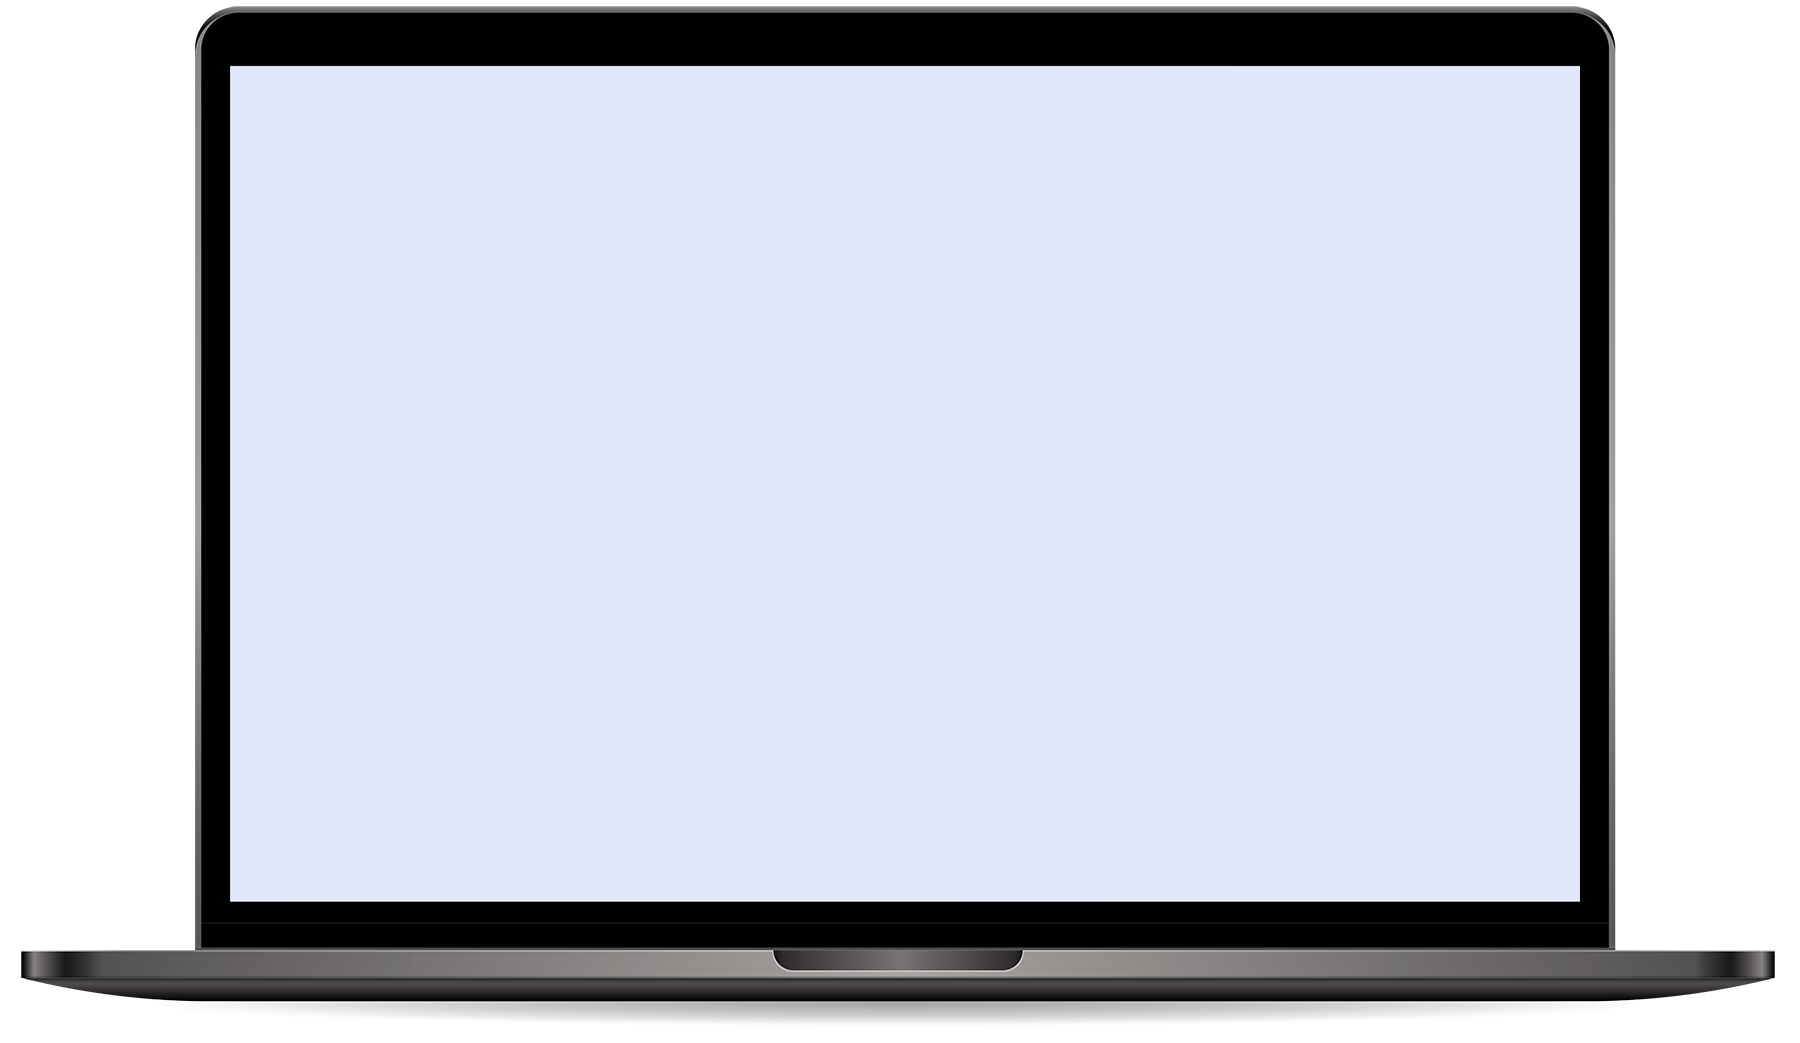
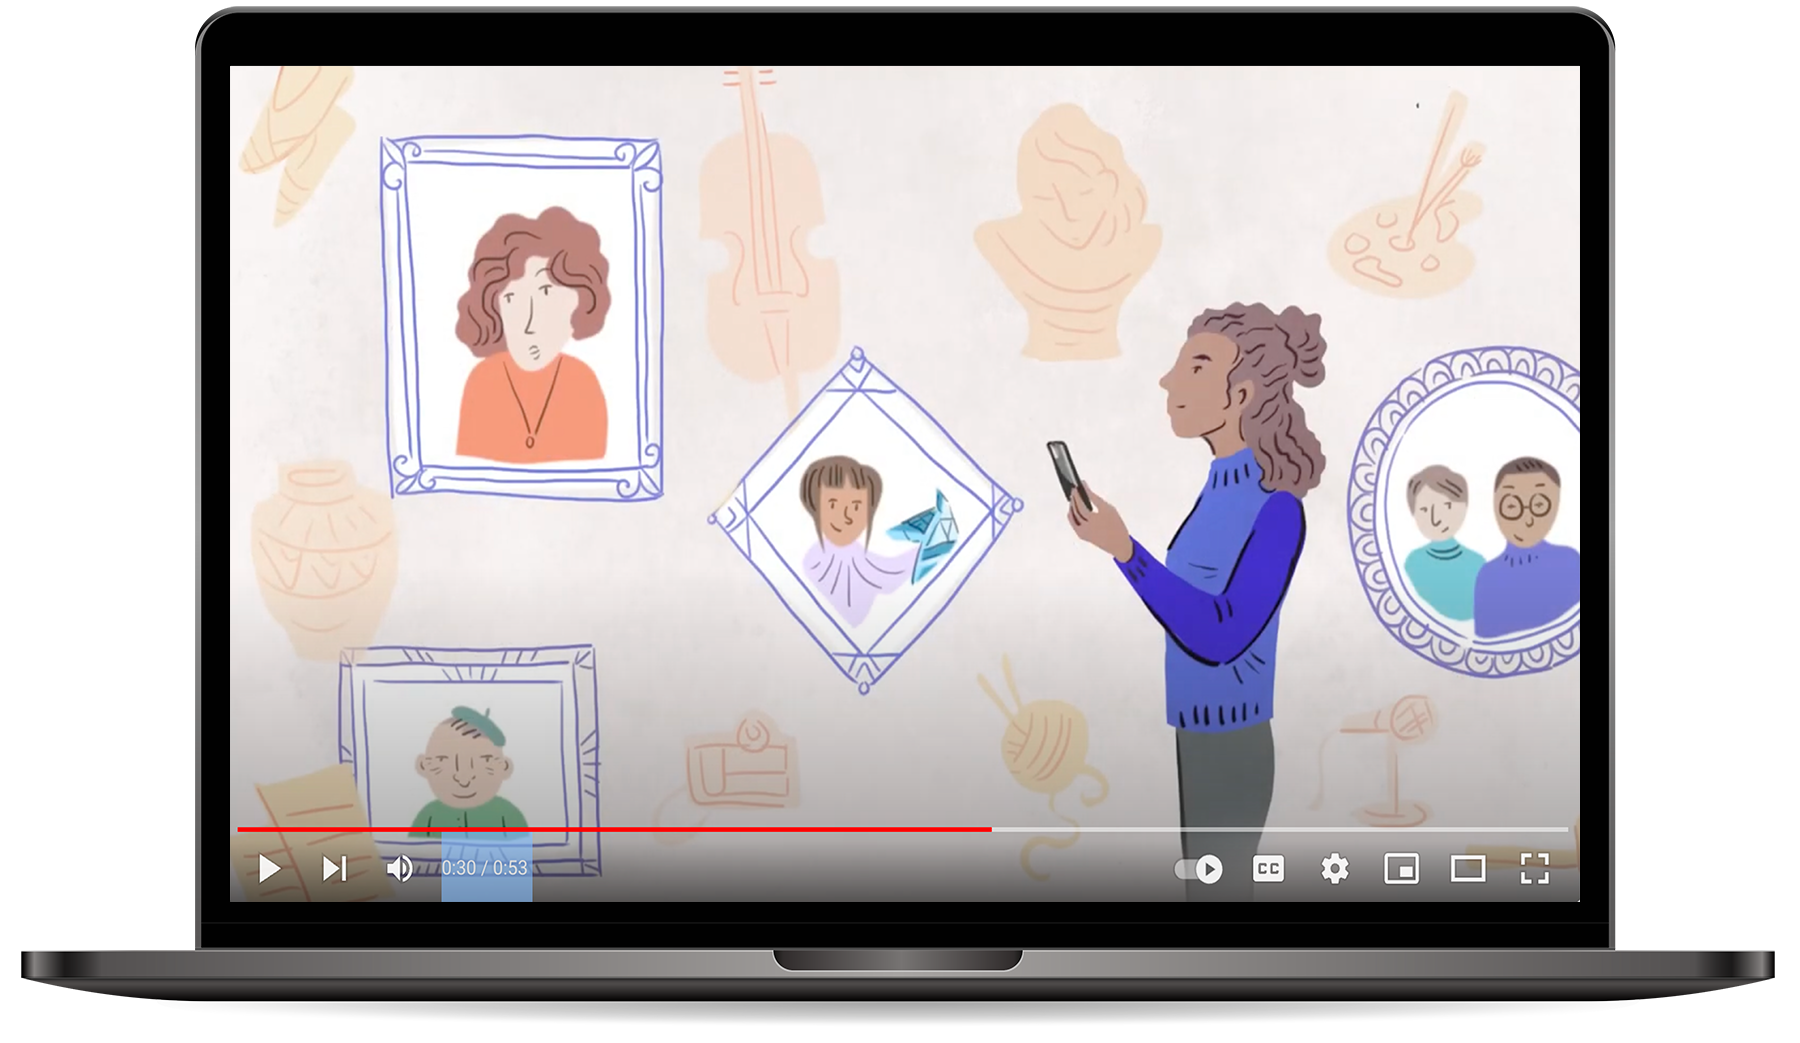
modal for video

diff --git a/app/page.js b/app/page.js
@@ -1,4 +1,7 @@
 import Image from "next/image";
+import Modal from '@/components/Modal'
+import { PlayCircleIcon } from '@heroicons/react/24/solid'
+
 
 export default function Home() {
   return (
@@ -6,29 +9,29 @@ export default function Home() {
       <nav className="container mx-auto p-6 flex justify-between">
         <div><h1 className="font-title text-navy text-2xl max-w-sm">éditions in space</h1></div>
         <div className="flex gap-6 items-center justify-end">
-          <a href="#subscribe" className="text-navy text-lg uppercase">Join our artist network</a>
+          <a href="#subscribe" className="text-navy text-lg uppercase hover:text-aubergine">Join our artist network</a>
           <a href="https://www.instagram.com">
             <Image
-                  className="relative"
-                  src="/images/instagram.svg"
-                  alt="Instagram"
-                  width={30}
-                  height={30}
-                  priority
-                />
+              className="relative"
+              src="/images/instagram.svg"
+              alt="Instagram"
+              width={30}
+              height={30}
+              priority
+            />
           </a>
         </div>
       </nav>
 
-      <section className="bg-beige h-[80vh] bg-[url('/images/Asset-6.png')] bg-no-repeat bg-right-bottom bg-[length:60%]">
-        <div className="container mx-auto py-24 flex gap-8 lg:gap-12 h-full items-center">
+      <section className="bg-beige md:h-[80vh] bg-[url('/images/Asset-6.png')] bg-no-repeat bg-right-bottom bg-[length:160%] bg-cover md:bg-[length:60%]">
+        <div className="container mx-auto px-4 py-12 md:py-24 md:flex gap-8 lg:gap-12 h-full items-center">
           <div className="flex-1">
-            <h2 className="font-title text-center text-6xl text-navy">Discover culture based on proximity</h2>
+            <h2 className="font-title text-center text-4xl md:text-6xl text-navy">Discover culture based on proximity</h2>
           </div>
           <div className="flex-1">
             <div className="flex justify-center">
               <Image
-                className="h-[75vh] w-auto object-fit translate-y-28"
+                className="md:h-[80vh] translate-y-12 md:translate-y-16 w-auto object-fit"
                 src="/images/phone-mockup.png"
                 alt="GIF of website"
                 width={444}
@@ -41,14 +44,14 @@ export default function Home() {
       </section>
 
       <section className="bg-navy text-beige">
-        <div className="container mx-auto py-24">
-          <h2 className="uppercase text-5xl font-medium mb-8">Vision</h2>
-          <div className="flex gap-8 lg:gap-12">
+        <div className="container mx-auto px-4 py-12 md:py-24">
+          <h2 className="uppercase text-3xl md:text-5xl font-medium mb-8">Vision</h2>
+          <div className="md:flex gap-8 lg:gap-12">
             <div className="flex-1">
-              <p className="text-3xl">We dream of closer ties between art and communities that surround its production.</p>
+              <p className="text-xl md:text-3xl mb-6">We dream of closer ties between art and communities that surround its production.</p>
             </div>
             <div className="flex-1">
-              <p className="text-lg">Editions in Space is a mapping initiative. It enables location-based discovery of artist profiles, events, and other creative content. Join our growing artist network to be visible at the neighbourhood scale!</p>
+              <p className="md:text-lg">Editions in Space is a mapping initiative. It enables location-based discovery of artist profiles, events, and other creative content. Join our growing artist network to be visible at the neighbourhood scale!</p>
             </div>
           </div>
         </div>
@@ -56,8 +59,8 @@ export default function Home() {
       </section>
 
       <section className="bg-white text-navy">
-        <div className="container mx-auto py-24">
-          <p className="max-w-md mx-auto text-3xl text-center mb-12">Find artists and events in your community</p>
+        <div className="container mx-auto px-4 py-12 md:py-24">
+          <p className="max-w-md mx-auto text-xl md:text-3xl text-center mb-12">Find artists and events in your community</p>
           <div className="relative max-w-3xl mx-auto">
             <Image
               className="w-full h-auto"
@@ -66,21 +69,15 @@ export default function Home() {
               width={1800}
               height={1043}
             />
-            <div className="absolute inset-0 flex flex-col justify-center items-center text-center font-title font-medium text-4xl text-navy">
-              <div>Music</div>
-              <div>Visual</div>
-              <div>Performance</div>
-              <div>Experimental</div>
-              <div>Literary</div>
-              <div>Media</div>
-            </div>
+            <Modal />
           </div>
+
         
           <div className="mt-24">
-            <h2 className="uppercase text-5xl mb-8 text-center font-medium">Key features</h2>
-            <ul className="flex gap-8 lg:gap-12">
-              <li className="flex-1 flex flex-col items-center">
-                <p className="uppercase text-2xl text-center mb-4">Artist<br/>profiles</p>
+            <h2 className="uppercase text-3xl md:text-5xl mb-16 text-center font-medium">Key features</h2>
+            <ul className="md:flex gap-8 lg:gap-12">
+              <li className="flex-1 flex flex-col items-center mb-16">
+                <p className="uppercase text-2xl text-center mb-4">Artist profiles</p>
                 <Image
                   className="relative"
                   src="/images/Asset-7.png"
@@ -90,8 +87,8 @@ export default function Home() {
                 />
               </li>
 
-              <li className="flex-1 flex flex-col items-center">
-                <p className="uppercase text-2xl text-center mb-4">Event<br/>listings</p>
+              <li className="flex-1 flex flex-col items-center mb-16">
+                <p className="uppercase text-2xl text-center mb-4">Event listings</p>
                 <Image
                   className="relative"
                   src="/images/Asset-8.png"
@@ -102,7 +99,7 @@ export default function Home() {
               </li>
 
               <li className="flex-1 flex flex-col items-center">
-                <p className="uppercase text-2xl text-center mb-4">Special<br/>editions</p>
+                <p className="uppercase text-2xl text-center mb-4">Special editions</p>
                 <Image
                   className="relative"
                   src="/images/Asset-1.png"
@@ -117,14 +114,14 @@ export default function Home() {
       </section>
 
       <section id="subscribe" className="bg-white text-aubergine">
-        <div className="container mx-auto pb-24">
-          <div className="bg-lavendar rounded-xl p-16 container mx-auto">
-            <div className="flex gap-8 lg:gap-12">
+        <div className="container mx-auto px-4 py-12 md:py-24">
+          <div className="bg-lavendar rounded-xl p-4 md:p-8 md:p-16 container mx-auto">
+            <div className="md:flex gap-8 lg:gap-12">
               <div className="flex-1">
-                <h2 className="uppercase text-5xl mb-8 mt-8 font-medium">Join our network</h2>
+                <h2 className="uppercase text-3xl md:text-5xl md:mb-8 mt-8 font-medium">Join our network</h2>
               </div>
               <div className="flex-1 min-h-[734px]">
-                <iframe className="h-full w-full" src="https://cdn.forms-content-1.sg-form.com/8a1a9e4a-2f29-11ef-b521-e2837eaeccec"/>
+                <iframe className="h-full w-full h-[734px]" src="https://cdn.forms-content-1.sg-form.com/8a1a9e4a-2f29-11ef-b521-e2837eaeccec"/>
               </div>
 {/*              <form action="" className="flex-1">
                 <div className="mb-4">
@@ -175,10 +172,10 @@ export default function Home() {
       </section>
 
       <section className="bg-beige">
-        <div className="container mx-auto py-24">
-          <h2 className="font-title text-6xl text-aubergine mb-10">Origin Story</h2>
-          <div className="flex gap-12">
-            <div className="flex-1">
+        <div className="container mx-auto px-4 py-12 md:py-24">
+          <h2 className="font-title text-4xl md:text-6xl text-aubergine mb-6 md:mb-10">Origin Story</h2>
+          <div className="md:flex gap-12">
+            <div className="flex-1 mb-6">
               <div>
                 <Image
                   className="relative w-full h-full object-cover rounded-xl"
@@ -190,74 +187,74 @@ export default function Home() {
               </div>
             </div>
             <div className="flex-1 text-aubergine">
-              <p className="text-3xl mb-8 leading-relaxed">“As an independent artist and curator, I have experienced the limitations of the established channels for art promotion first-hand. My practice has evolved largely by presenting projects at unconventional venues and in novel formats and this platform was born out of me realizing the lack of location-based solutions for connecting audiences to art.”</p>
+              <p className="text-xl md:text-3xl mb-8 leading-relaxed">“As an independent artist and curator, I have experienced the limitations of the established channels for art promotion first-hand. My practice has evolved largely by presenting projects at unconventional venues and in novel formats and this platform was born out of me realizing the lack of location-based solutions for connecting audiences to art.”</p>
               <div>
-                <p className="font-title text-4xl text-right mb-2">- Prachi Khandekar</p>
-                <p className="text-right text-xl">Founder, Editions in Space</p>
+                <p className="font-title text-3xl md:text-4xl text-right mb-2">- Prachi Khandekar</p>
+                <p className="text-right md:text-xl">Founder, Editions in Space</p>
               </div>
             </div>
           </div>
         </div>
       </section>
 
-      <section className="bg-white bg-[url('/images/Asset-12.png')] bg-no-repeat bg-cover bg-center">
-        <div className="container mx-auto py-24 text-navy">
-            <h2 className="font-title text-center text-6xl text-white max-w-lg mx-auto mb-48">Explore culture in your vicinity</h2>
-            <ul className="flex gap-8 lg:gap-12">
+      <section className="bg-white bg-[url('/images/Asset-12.png')] bg-no-repeat bg-cover md:bg-center">
+        <div className="container mx-auto px-4 py-12 md:py-24 text-navy">
+            <h2 className="font-title text-center text-4xl md:text-6xl text-white max-w-lg mx-auto mb-12 md:mb-48">Explore culture in your vicinity</h2>
+            <ul className="flex flex-col md:flex-row gap-8 lg:gap-12">
               <li className="flex-1">
                 <Image
-                  className=""
+                  className="max-w-28"
                   src="/images/Asset-1.png"
                   alt="flower"
                   width={180}
                   height={180}
                 />
-                <p className="text-2xl mt-4">Residents can browse ephemeral and permanent art nearby</p>
+                <p className="text-lg md:text-2xl mt-4">Residents can browse ephemeral and permanent art nearby</p>
               </li>
 
               <li className="flex-1">
                 <Image
-                  className=""
+                  className="max-w-28"
                   src="/images/Asset-1.png"
                   alt="flower"
                   width={180}
                   height={180}
                 />
-                <p className="text-2xl mt-4">Artists can post once and focus on art production</p>
+                <p className="text-lg md:text-2xl  mt-4">Artists can post once and focus on art production</p>
               </li>
 
               <li className="flex-1">
                 <Image
-                  className=""
+                  className="max-w-28"
                   src="/images/Asset-1.png"
                   alt="flower"
                   width={180}
                   height={180}
                 />
-                <p className="text-2xl mt-4">Promoters can access relevant and invested audiences</p>
+                <p className="text-lg md:text-2xl  mt-4">Promoters can access relevant and invested audiences</p>
               </li>
             </ul>
         </div>
       </section>
 
       <section className="bg-navy">
-        <div className="container mx-auto py-24 text-beige">
-          <div className="flex mb-12">
-            <div className="flex-1">
+        <div className="container mx-auto px-4 py-12 md:py-24 text-beige">
+          <div className="md:flex mb-12 md:mb-4">
+            <div className="flex-1 mb-8">
               <div className="text-4xl">To <span className="font-title italic">collaborate</span></div>
-              <div><a href="mailto:info@editionsinspace.com" className="underline text-2xl">Contact us</a></div>
+              <div><a href="mailto:info@editionsinspace.com" className="underline text-2xl hover:text-white">Contact us</a></div>
             </div>
 
-            <div className="flex-1">
+            <div className="flex-1 mb-8">
               <div className="text-4xl">For <span className="font-title italic">updates</span></div>
-              <div><a href="#subscribe" className="underline text-2xl">Subscribe</a></div>
+              <div><a href="#subscribe" className="underline text-2xl hover:text-white">Subscribe</a></div>
             </div>
           </div>
 
-          <div className="flex gap-8 lg:gap-12 justify-between">
+          <div className="flex flex-col md:flex-row gap-8 lg:gap-12 justify-between">
             <div className="flex gap-4 uppercase text-xl">
-              <a href="#" className="underline">FAQ</a>
-              <a href="https://www.instagram.com" target="_blank" className="underline">Instagram</a>
+              <a href="#" className="underline hover:text-white">FAQ</a>
+              <a href="https://www.instagram.com" target="_blank" className="underline hover:text-white">Instagram</a>
             </div>
 
             <div>

diff --git a/components/Modal.js b/components/Modal.js
@@ -1,0 +1,54 @@
+'use client'
+
+import { useState } from "react";
+import Modal from "react-modal";
+import { XMarkIcon, PlayCircleIcon } from '@heroicons/react/24/solid'
+
+Modal.setAppElement('#root');
+
+export default function NewsModal() {
+  const [showModal, setShowModal] = useState(false);
+  return (
+    <>
+      <button onClick={() => setShowModal(true)}>
+        <div className="absolute inset-0 p-36 md:p-40 flex flex-col justify-center items-center text-center font-title font-medium md:text-4xl text-navy hover:text-aubergine">
+          <PlayCircleIcon />
+        </div>
+      </button>
+      <Modal 
+        isOpen={showModal}
+        shouldCloseOnOverlayClick={true}
+        onRequestClose={() => setShowModal(false)}
+        style={{
+          overlay: {
+            position: 'fixed',
+            top: 0,
+            left: 0,
+            right: 0,
+            bottom: 0,
+            backgroundColor: 'rgba(0, 0, 0, 0.75)'
+          },
+          content: {
+            position: 'absolute',
+            top: '60px',
+            left: '40px',
+            right: '40px',
+            bottom: '40px',
+            border: 'none',
+            background: 'transparent',
+            overflow: 'visible',
+            WebkitOverflowScrolling: 'touch',
+            borderRadius: '4px',
+            outline: 'none',
+            padding: '0'
+          }
+        }}
+      >
+        <div className="h-full w-full relative">
+          <iframe className="absolute inset-0 h-full w-full" width="560" height="315" src="https://www.youtube.com/embed/fsNuXnYkudQ?si=mvA28LjPFsN1raFI" title="YouTube video player" frameborder="0" allow="accelerometer; autoplay; clipboard-write; encrypted-media; gyroscope; picture-in-picture; web-share" referrerpolicy="strict-origin-when-cross-origin" allowfullscreen></iframe>
+          <button className="absolute -top-10 right-2 bg-beige rounded-full text-navy flex gap-1 items-center uppercase font-medium p-1 px-2" onClick={() => setShowModal(false)}>Close<XMarkIcon className="h-6 w-6" /></button>
+        </div>
+      </Modal>
+    </>
+  );
+}

diff --git a/app/layout.js b/app/layout.js
@@ -37,7 +37,7 @@ export const metadata = {
 
 export default function RootLayout({ children }) {
   return (
-    <html lang="en" className="scroll-smooth">
+    <html lang="en" className="scroll-smooth" id="root">
       <body className={`${poppins.className} ${monarque.variable} font-light leading-normal`}>{children}</body>
     </html>
   );
